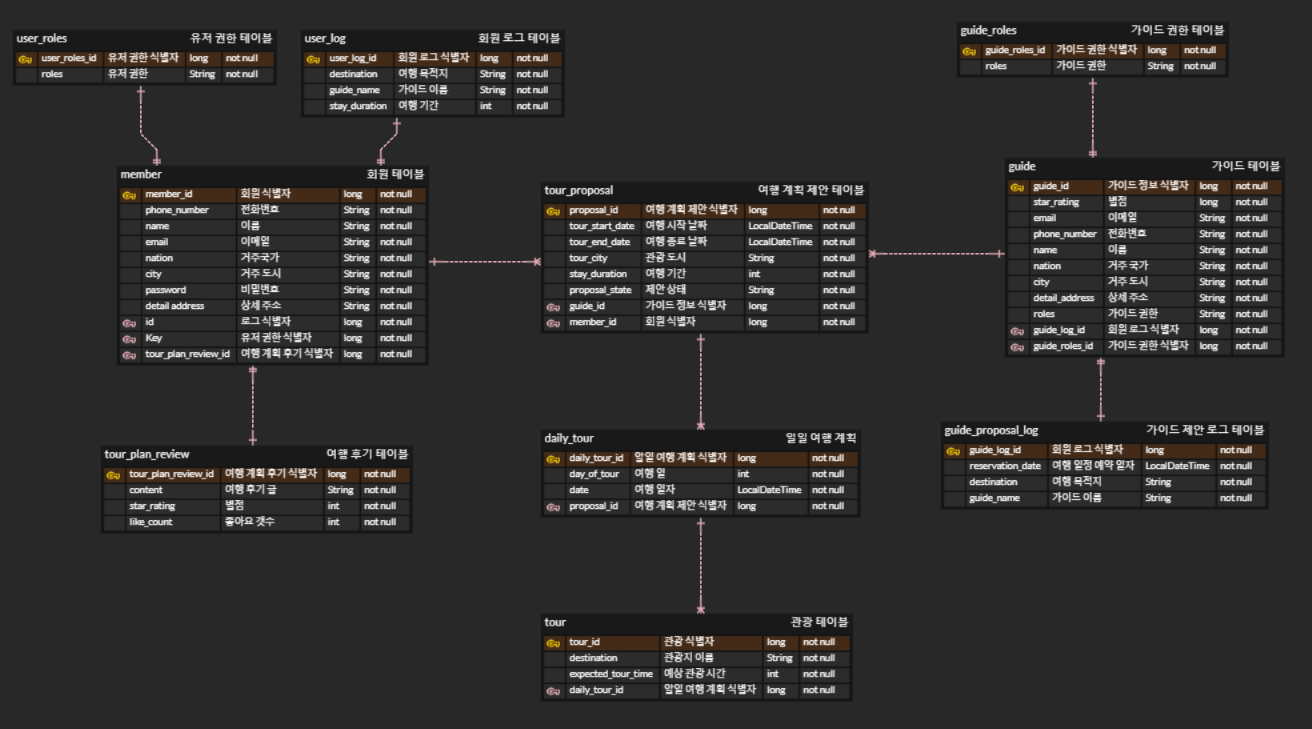
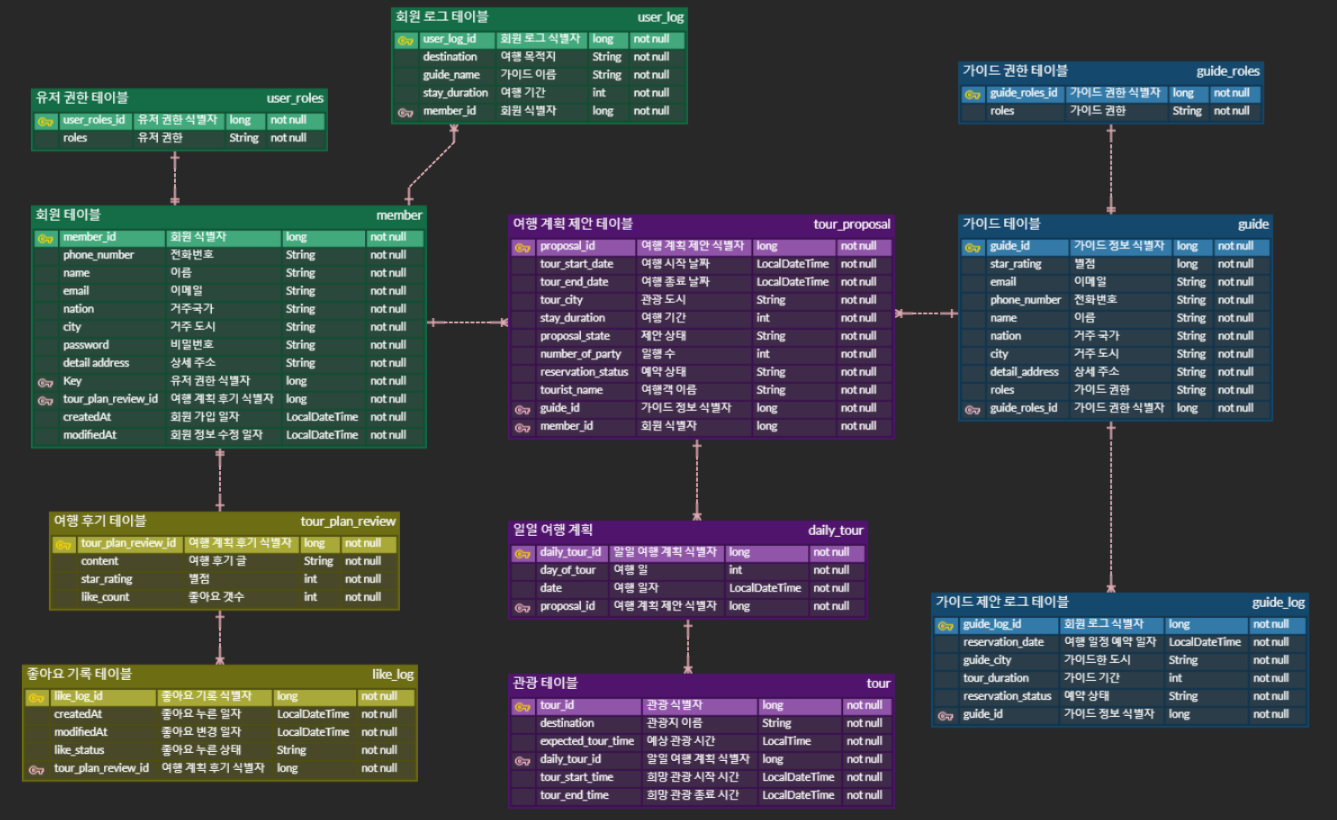
docs: Readme 수정
- erd 수정
- 구현 기능별 implementation keyword 작성
- 구현 내용 수정

diff --git a/docs/Readme.md b/docs/Readme.md
@@ -45,15 +45,25 @@
 |elastic search|  5.1.0 | 텍스트 데이터 검색 속도 향상 |
 
 ---
-## ⚙ 커밋 메세지 규칙
+## ⚙ commit rules
 
 - 기본 구조
 ```text
-commit type: 주제
+commit type: commit message
 
-body
-- 주제에 대한 설명
+body:
+[implementation keyword]: 
+commit details
+```
 
+### commit message 예시
+
+```text
+feat: 회원 가입 기능 구현
+
+[member-signup]
+spring security의 UserDetails,UserDetailsService 등을 재정의하여 커스텀 회원 가입 기능 구현
+ 
 ```
 
 - commit type
@@ -69,46 +79,52 @@ body
 ---
 
 ## 💾 ERD
-![tour_erd](tour_erd.png)
+<p align="center">
+<img src="./tour_erd.png" height="820" width="1337" alt="erd">
+</p>
 
 ## 🧿 구현 예정 기능
 
-### 여행객 [tourist]
+### 공통 기능
 
-#### 회원 가입 [member-sigup]
-  - 이름, 이메일, 전화번호, 주소, 비밀번호를 입력받아 회원가입
-  - 중복 이메일, 전화번호 체크
-  - 회원 가입시 입력받은 이메일을 통해 이메일 검증
-  - 비밀번호는 해시알고리즘(HSA-512)을 이용하여 저장
+#### 회원 가입 [member-signup]
+- 이름, 이메일, 전화번호, 주소, 비밀번호를 입력받아 회원가입
+- 중복 이메일, 전화번호 체크
+- 회원 가입시 입력받은 이메일을 통해 이메일 검증
+- 비밀번호는 해시알고리즘(HSA-512)을 이용하여 저장
 
 
 #### 로그인 [member-login]
-  - 이메일과 비밀번호를 입력받아 로그인 수행
-  - 이메일을 통해 회원 가입 여부 판단
-  - 이메일로 회원 조회
-  - 입력받은 비밀 번호를 복호화해 조회된 회원의 비밀번호와 같은지 검증
-  - 비밀번호 검증 후, jwt 토큰을 발급
+- 이메일과 비밀번호를 입력받아 로그인 수행
+- 이메일을 통해 회원 가입 여부 판단
+- 이메일로 회원 조회
+- 입력받은 비밀 번호를 복호화해 조회된 회원의 비밀번호와 같은지 검증
+- 비밀번호 검증 후, jwt 토큰을 발급
 
 
 #### 로그아웃 [member-logout]
-  - 발급한 토큰을 유효하지 않게 처리
+- 발급한 토큰을 유효하지 않게 처리
 
 
-#### 회원 정보 수정 [tourist-update]
+### 여행객 [tourist]
+
+
+#### 여행객 정보 수정 [tourist-update]
   - 패스워드, 이메일, 전화번호와 거주지 등을 변경 
 
 
-#### 회원 정보 삭제 [tourist-delete]
+#### 여행객 정보 삭제 [tourist-delete]
   - 회원 탈퇴 시, 데이터베이스에서 삭제
-  -
 
 ---
 ### 여행 계획 [plan]
 
+
 #### 여행 계획 작성 [plan-create]
 - 여행일 수만큼 일일 계획을 작성
     - (ex. 3일 여행이라면 3개의 일일 계획을 작성)
-- 일일 계획은 관광할 목적지 목록과 예상 관광 시간 기재
+- 일일 계획은 관광을 희망하는 목적지들과 예상 관광 시간 기재
+  - 일일 계획 작성 시 희망 관광 시간의 총합보다 개별 관광의 예상 관광 시간의 합이 크면 안됨
 
 
 #### 이전 여행 계획 조회 [plan-search-all]
@@ -125,7 +141,8 @@ body
 
 
 #### 여행 계획 수정 [plan-update]
-- 가이드에게 제안한 여행 계획의 상태가 보류 상태인 경우에만 수정 가능
+- 여행객은 제안한 여행 계획이 보류 상태인 경우에만 수정 가능
+- 가이드는 제안받은 여행 계획이 보류 상태인 경우에만 수정 가능
 
 
 #### 여행 계획 제안 취소 [plan-delete]
@@ -135,83 +152,66 @@ body
 
 ### 여행 후기 [review]
 
-#### 여행 후기 글 작성
+#### 여행 후기 글 작성 [review-create]
 - 회고 글 양식으로 자유로운 형태로 작성
 
 
-#### 여행 후기 좋아요
+#### 여행 후기 좋아요 [review-like]
 - 여행 후기의 좋아요 버튼 클릭 시 좋아요 갯수 추가
 - 클릭한 적이 한번도 없는 사람인 경우에만 갯수 추가
-- 클릭한 적이 있다면
+- 클릭한 적이 있다면 
 
 
-#### 여행 후기 수정
+#### 여행 후기 수정 [review-update]
 - 여행 후기 글 수정
 - 여행 후기 별점 수정
 
 
-#### 여행 후기 삭제
+#### 여행 후기 삭제 [review-delete]
 - 여행 후기 삭제 요청 시 삭제
 
 
-#### 여행 후기 별점 작성
+#### 여행 후기 별점 작성 [review-starRating]
 - 후기에 작성된 별점으로 해당 여행 계획을 가이드한 가이드의 별점 업데이트
 
 ---
-### 가이드
-
-#### 회원 가입
-  - 이름, 이메일, 전화번호, 주소, 비밀번호를 입력받아 회원가입
-  - 중복 이메일, 전화번호 체크
-  - 회원 가입시 입력받은 이메일을 통해 이메일 검증
-  - 비밀번호는 해시알고리즘(HSA-512)을 이용하여 저장
-
-  
-#### 로그인
-  - 이메일과 비밀번호를 입력받아 로그인 수행
-  - 이메일로 데이터베이스 조회를 통해 회원 가입 여부 판단
-  - 입력받은 비밀 번호를 복호화해 조회된 회원의 비밀번호 동일성 검증
-  - 비밀번호 검증 후, jwt 토큰을 발급
+### 가이드 [guide]
 
 
-#### 로그아웃
-  - 발급한 토큰을 유효하지 않게 처리
-
-
-#### 가이드 정보 수정
+#### 가이드 정보 수정 [guide-update]
   - 가이드의 패스워드, 연락처, 이메일와 거주지 등을 변경
 
 
-#### 가이드 정보 삭제
+#### 가이드 정보 삭제 [guide-delete]
   - 가이드의 회원 탈퇴 시, 가이드 정보 삭제
 
 
-#### 제안받은 투어 예약 목록 조회
+#### 제안받은 투어 예약 목록 조회 [guide-search-proposal]
   - 예약 상태가 보류 상태인 투어 예약만 조회 
 
 
-#### 계약 승인/거절 기능
+#### 계약 승인/거절 기능 [guide-approval]
   - 승인 시, 투어 예약 상태를 예약 확정으로 변경
     - 투어 예약을 제안한 여행자에게 승인 알림 전송
   - 거절 시, 투어 예약을 삭제
     - 투어 예약을 제안한 여행자에게 거절 알림 전송
 
 
-#### 투어 일정 조회
-  - 조회 시점 이후의 예약된 투어 일정만 조회
+#### 투어 일정 조회 [guide-search-reservation]
+  - 조회 시점 이후의 예약 상태가 승인 상태인 투어 일정만 조회
 
 ---
-### 투어 예약
+### 투어 예약 [reservation]
 
-#### 가이드 별 예약 일정 조회
+#### 가이드 별 예약 일정 조회 [reservation-search-by-guide]
   - 예약 가능 여부 판단을 위해 가이드별 예약 일정 조회
 
 
-#### 현재 예약 가능한 가이드 목록 조회
+#### 현재 예약 가능한 가이드 목록 조회 [reservation-search-guide-possible]
   - 여행 계획에 기재된 여행 날짜에 가용할 수 있는 가이드만 조회
 
 
-#### 투어 예약
+#### 투어 예약 [reservation-reserve]
   - 투어가 예약되면 가이드에게 알림 전송
   - 예약은 가이드가 승인하기 전까지 보류 상태로 설정
 
@@ -222,15 +222,16 @@ body
 - 방문 국가와 도시를 전달받아 여행 후기를 조건에 따라 조회
 
 
-#### 방문 국가, 도시와 별점 순 조회[review-]
+#### 방문 국가, 도시와 별점 순 조회[review-search]
 
 
-#### 검색어에 따라 조회
+#### 검색어에 따라 조회 [review-search-by-keyword]
 
 
-#### 여행지에 따라 조회
+#### 여행지에 따라 조회 [review-search-by-destination]
 
 
-#### 좋아요 개수에 따라 조회
+#### 좋아요 개수에 따라 조회 [review-search-by-like]
 
-#### 가이드 별 조회
+
+#### 가이드 별 조회 [review-search-by-guide]
